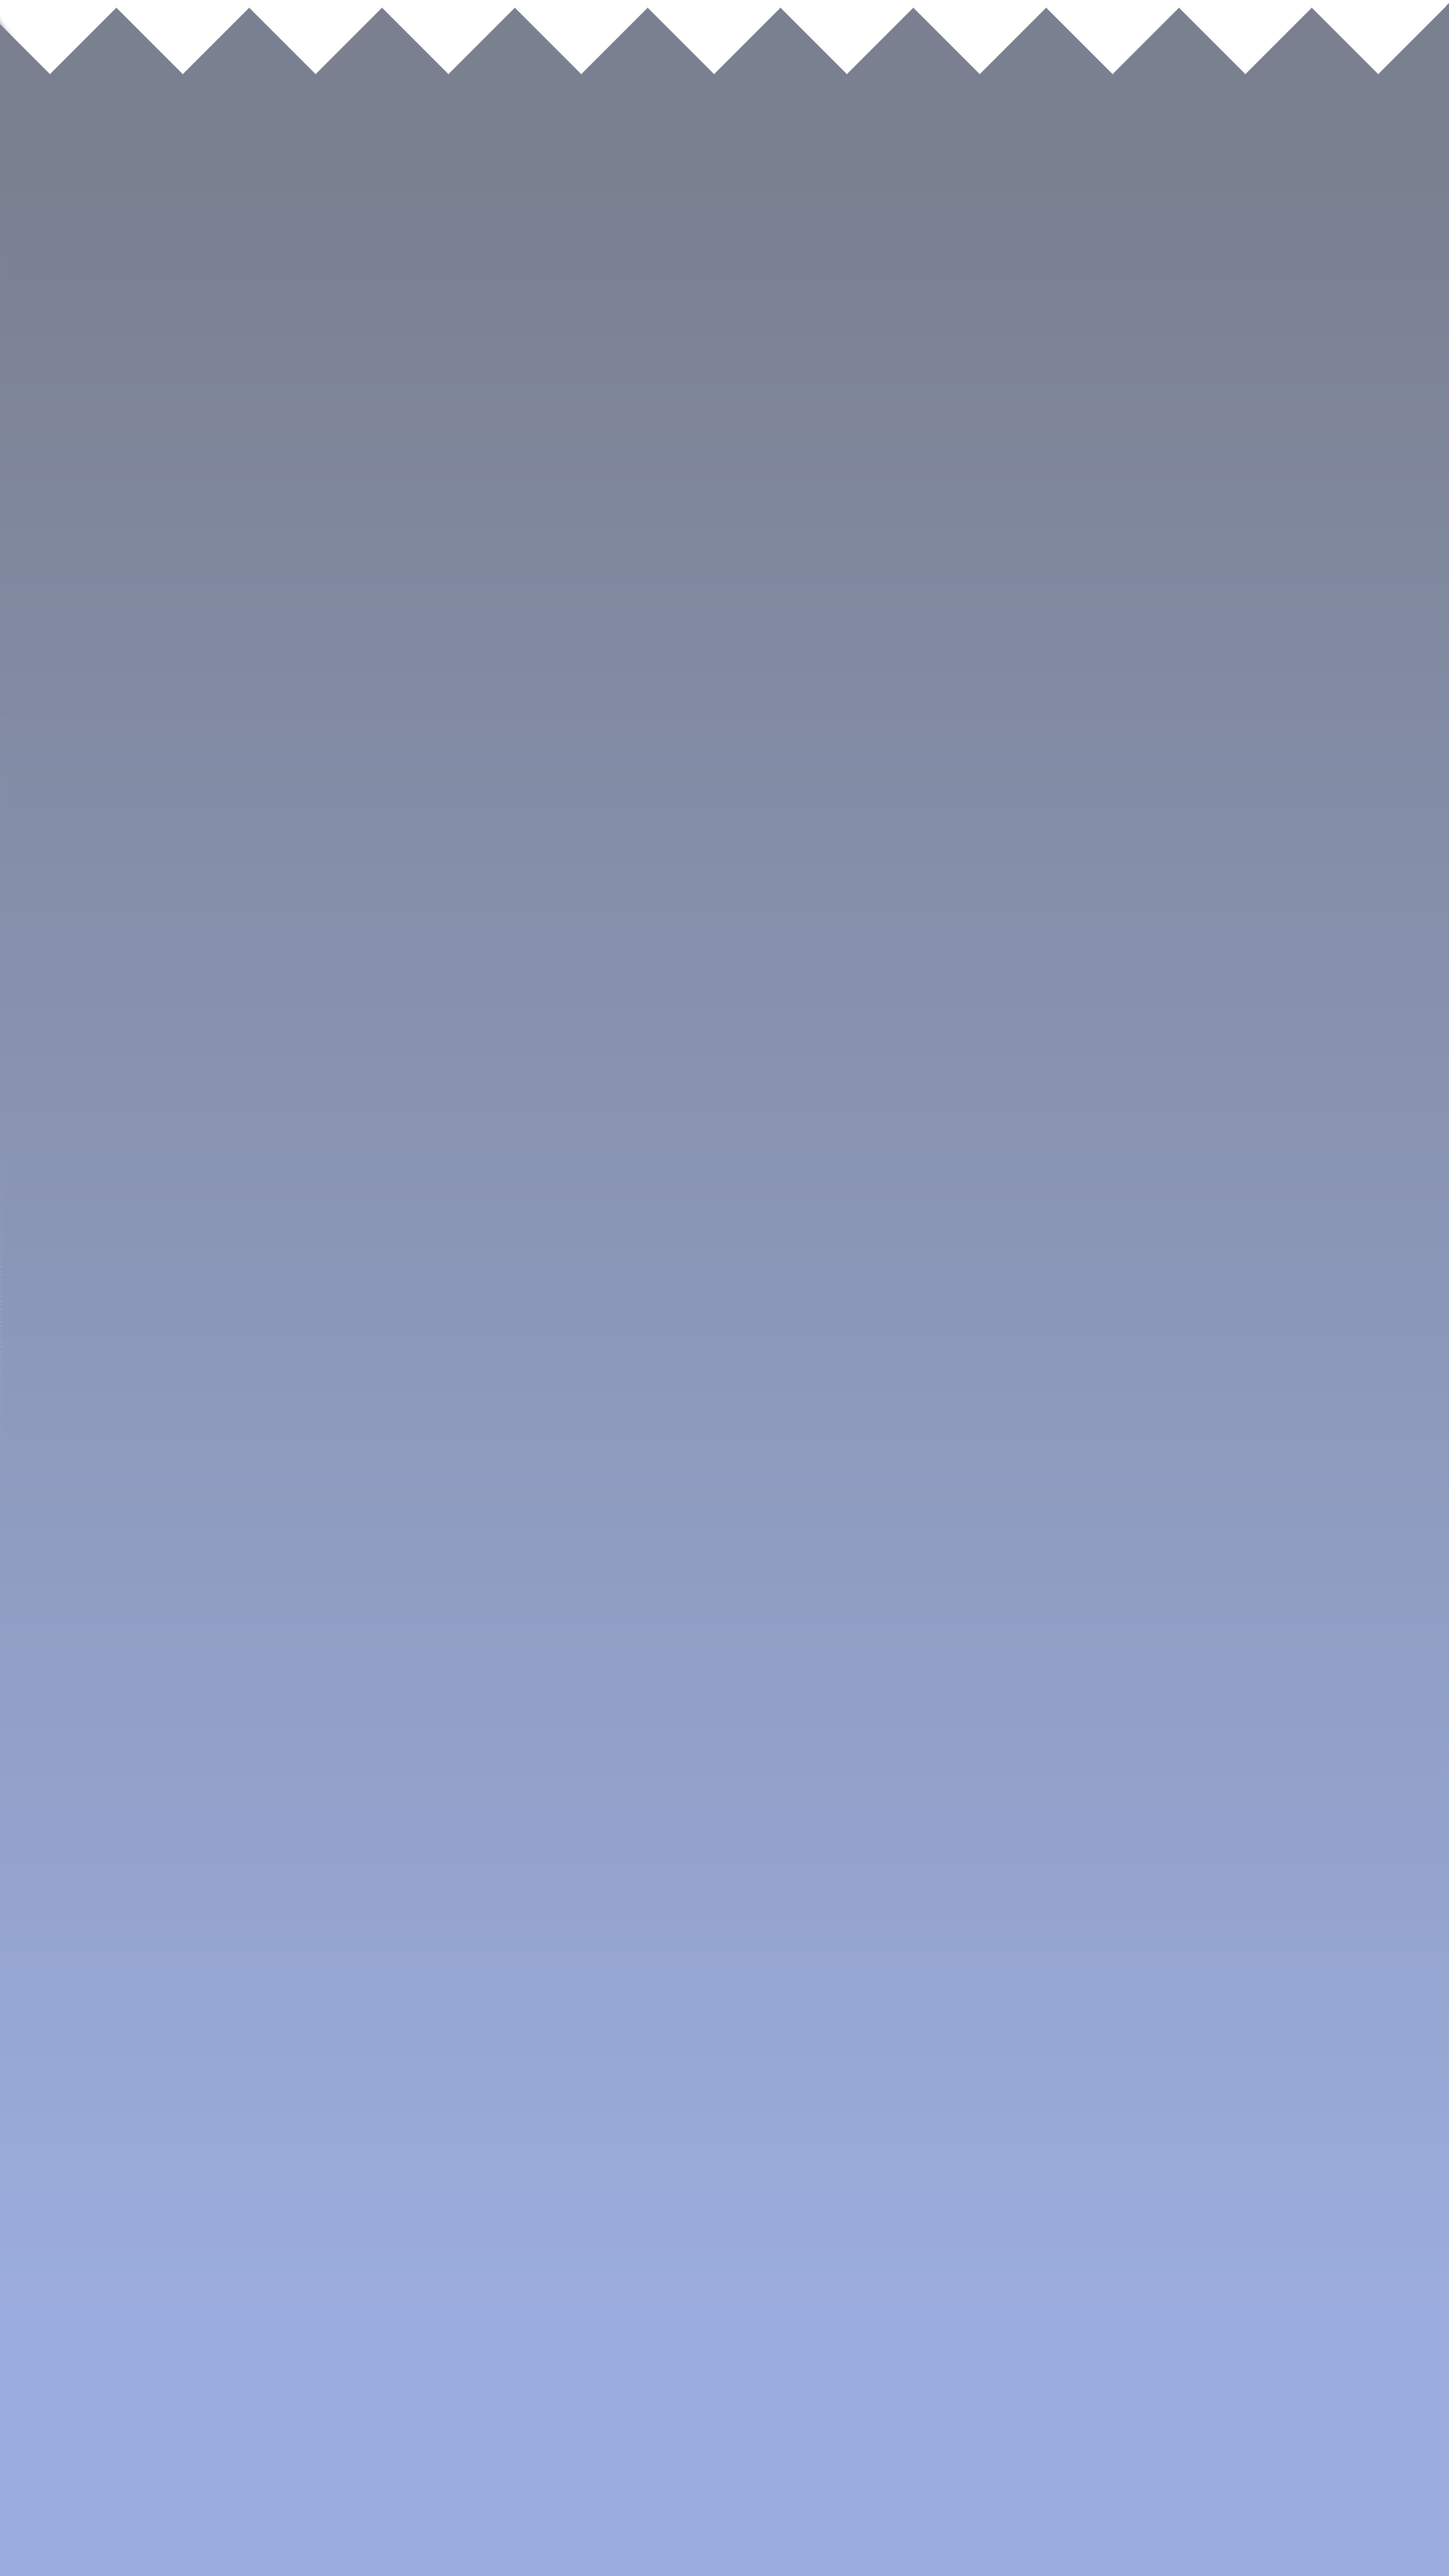
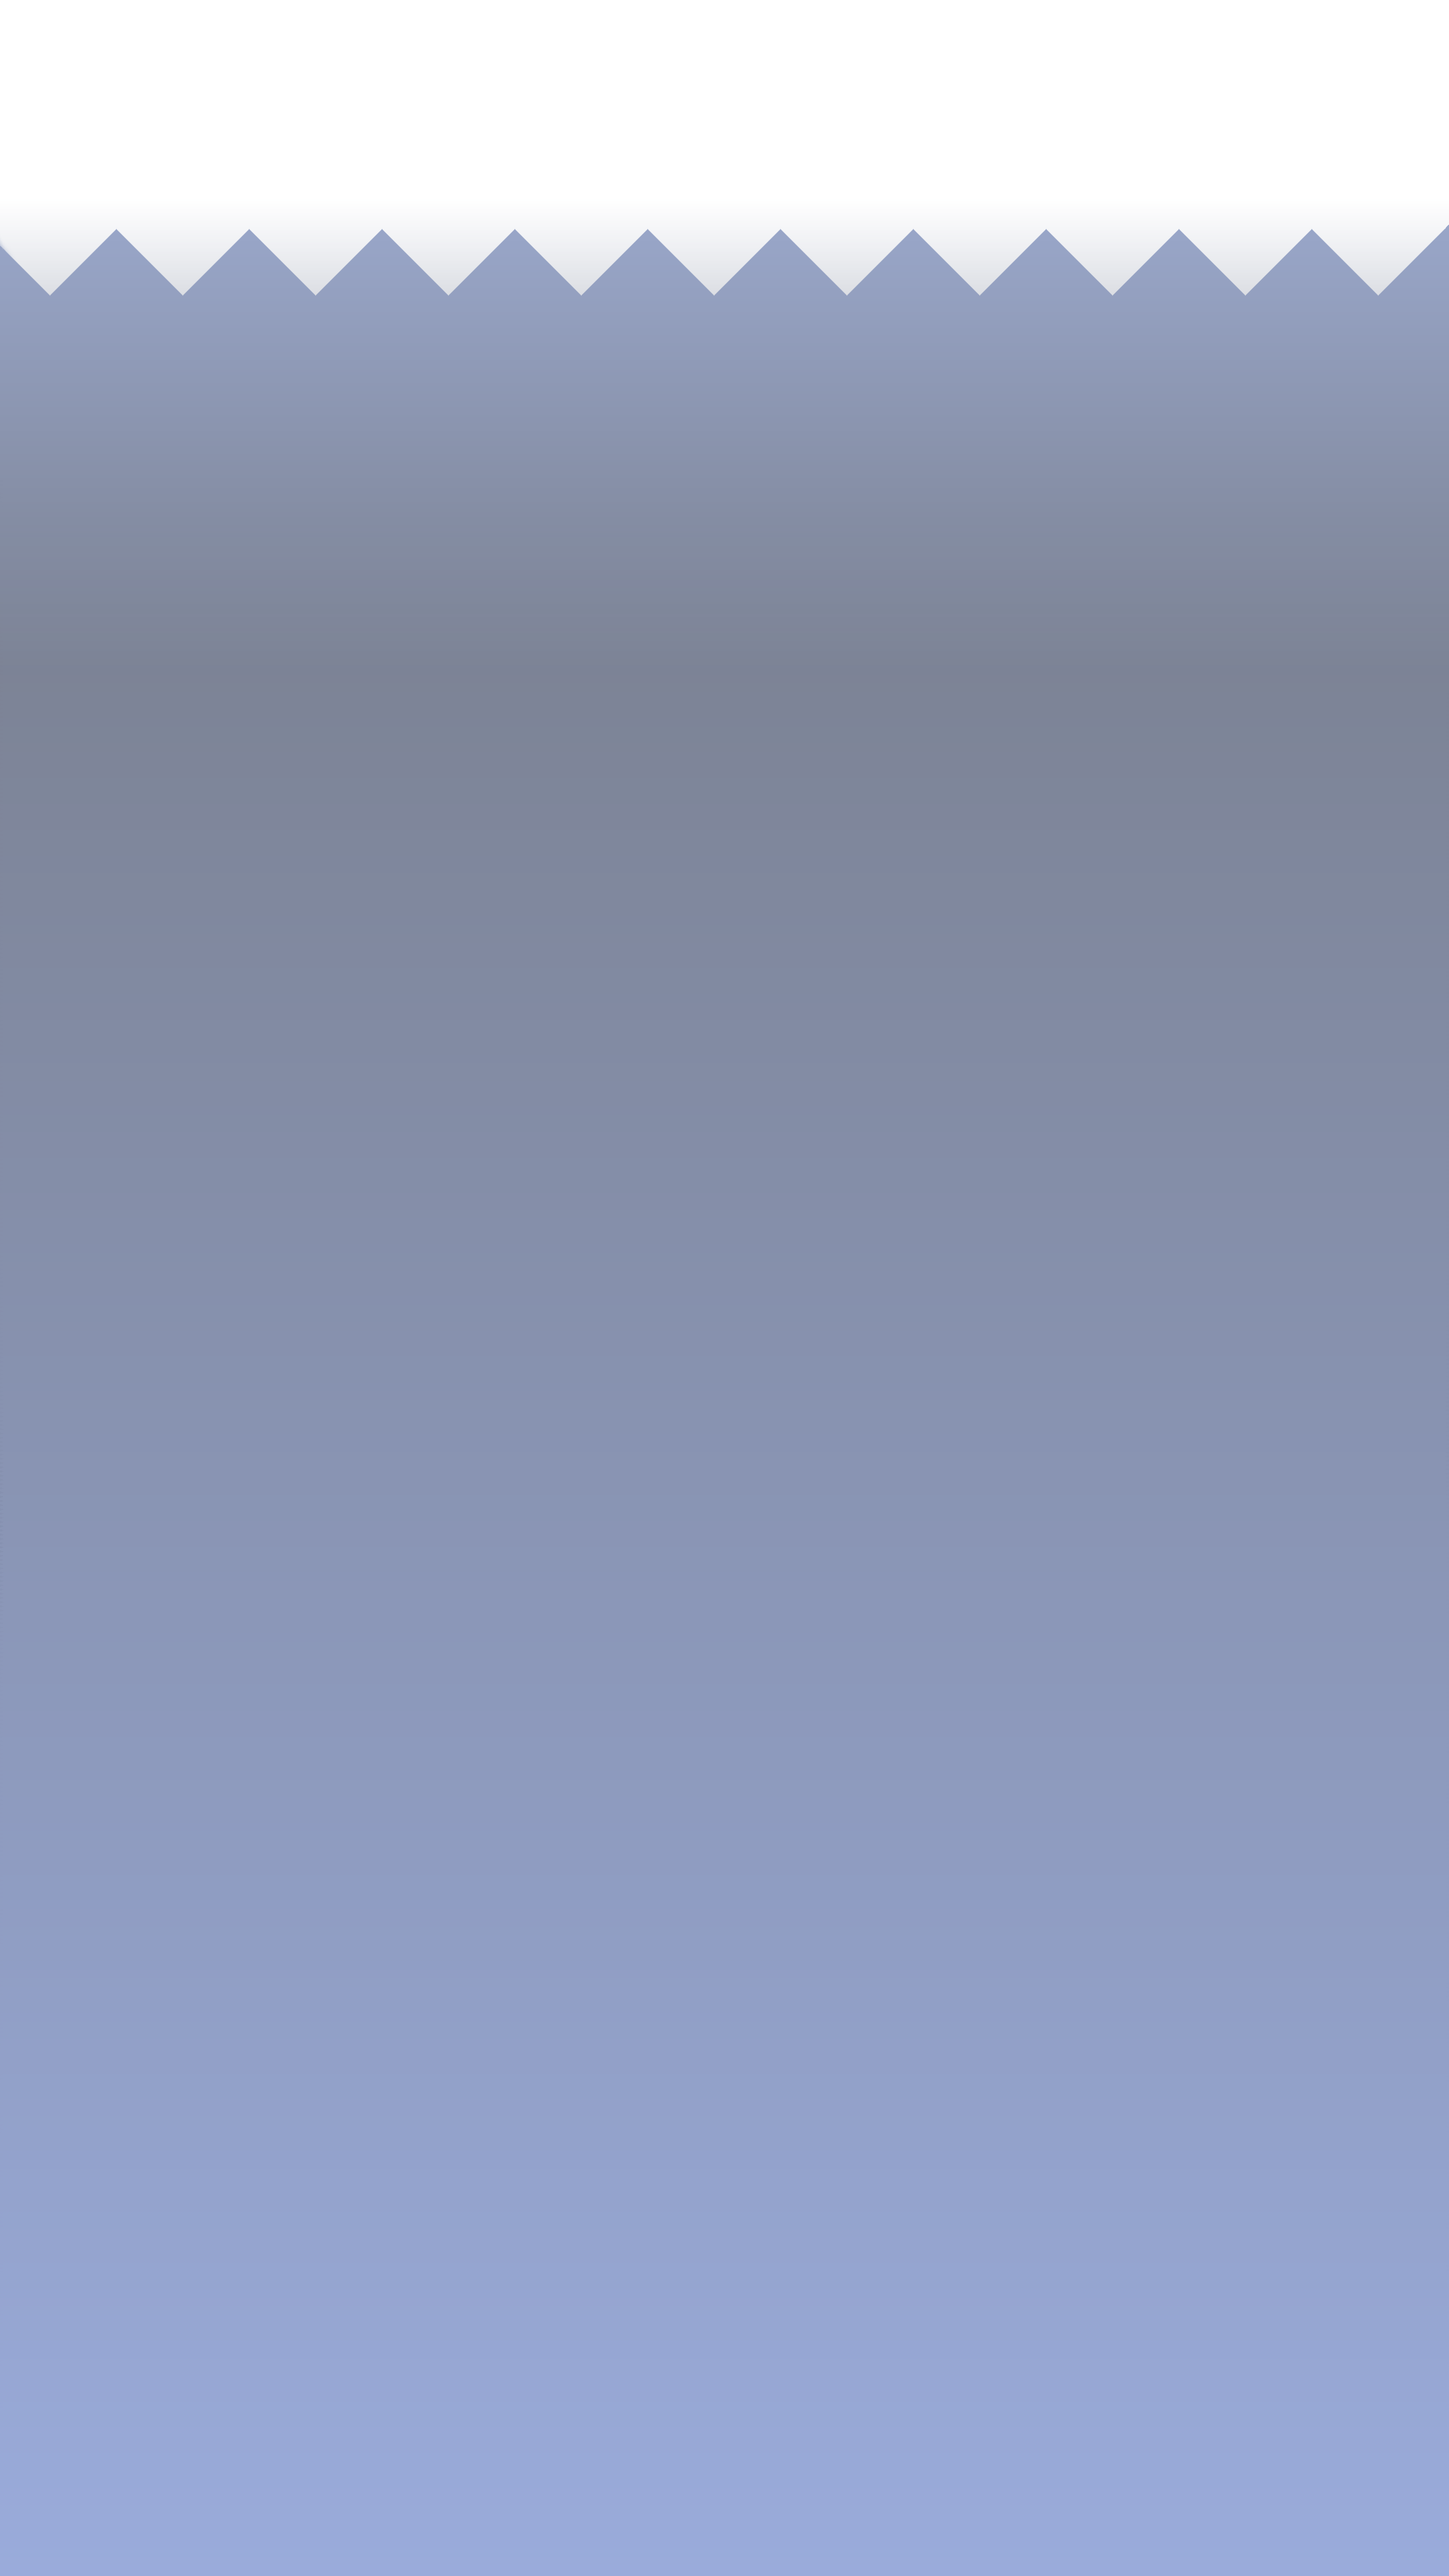
fix: projects section background alignment

Changed region(s): [[0.0, 0.0, 1.0, 0.1562]]

diff --git a/src/App.jsx b/src/App.jsx
@@ -37,7 +37,7 @@ function App() {
 				<ParallaxLayer offset={0.5} factor={2.6} speed={1.5} style={{ backgroundImage: `url(${FirstGradient})` }}>
 					<About />
 				</ParallaxLayer>
-				<ParallaxLayer offset={0.5} factor={2} speed={1.0} style={{backgroundImage:`url(${SecondGradient})`,position:"relative"}} className={styles.thirdLayer}>
+				<ParallaxLayer offset={0.5} factor={2} speed={1.2} style={{backgroundImage:`url(${SecondGradient})`,position:"relative"}} className={styles.thirdLayer}>
 					<Projects />
 				</ParallaxLayer>
 

diff --git a/src/Projects.module.css b/src/Projects.module.css
@@ -1,6 +1,6 @@
 .mainContent {
   position: absolute;
-  top: 15%;
+  top: 30%;
   color: white;
   left: 50%;
   font-family: arial;
@@ -12,4 +12,10 @@
 .mainContent > h1 {
   font-size: 52px;
   font-family: arial;
+}
+
+@media screen and (max-width: 1024px) {
+  .mainContent {
+    top: 40%;
+  }
 }

diff --git a/src/App.module.css b/src/App.module.css
@@ -30,11 +30,11 @@ body {
 }
 
 .thirdLayer {
-  margin-top: -320px;
+  margin-top: -400px;
 }
 
-@media screen and (max-width: 1280px) {
+@media screen and (max-width: 1024px) {
   .thirdLayer {
-    margin-top: 240px;
+    margin-top: 20px;
   }
 }
